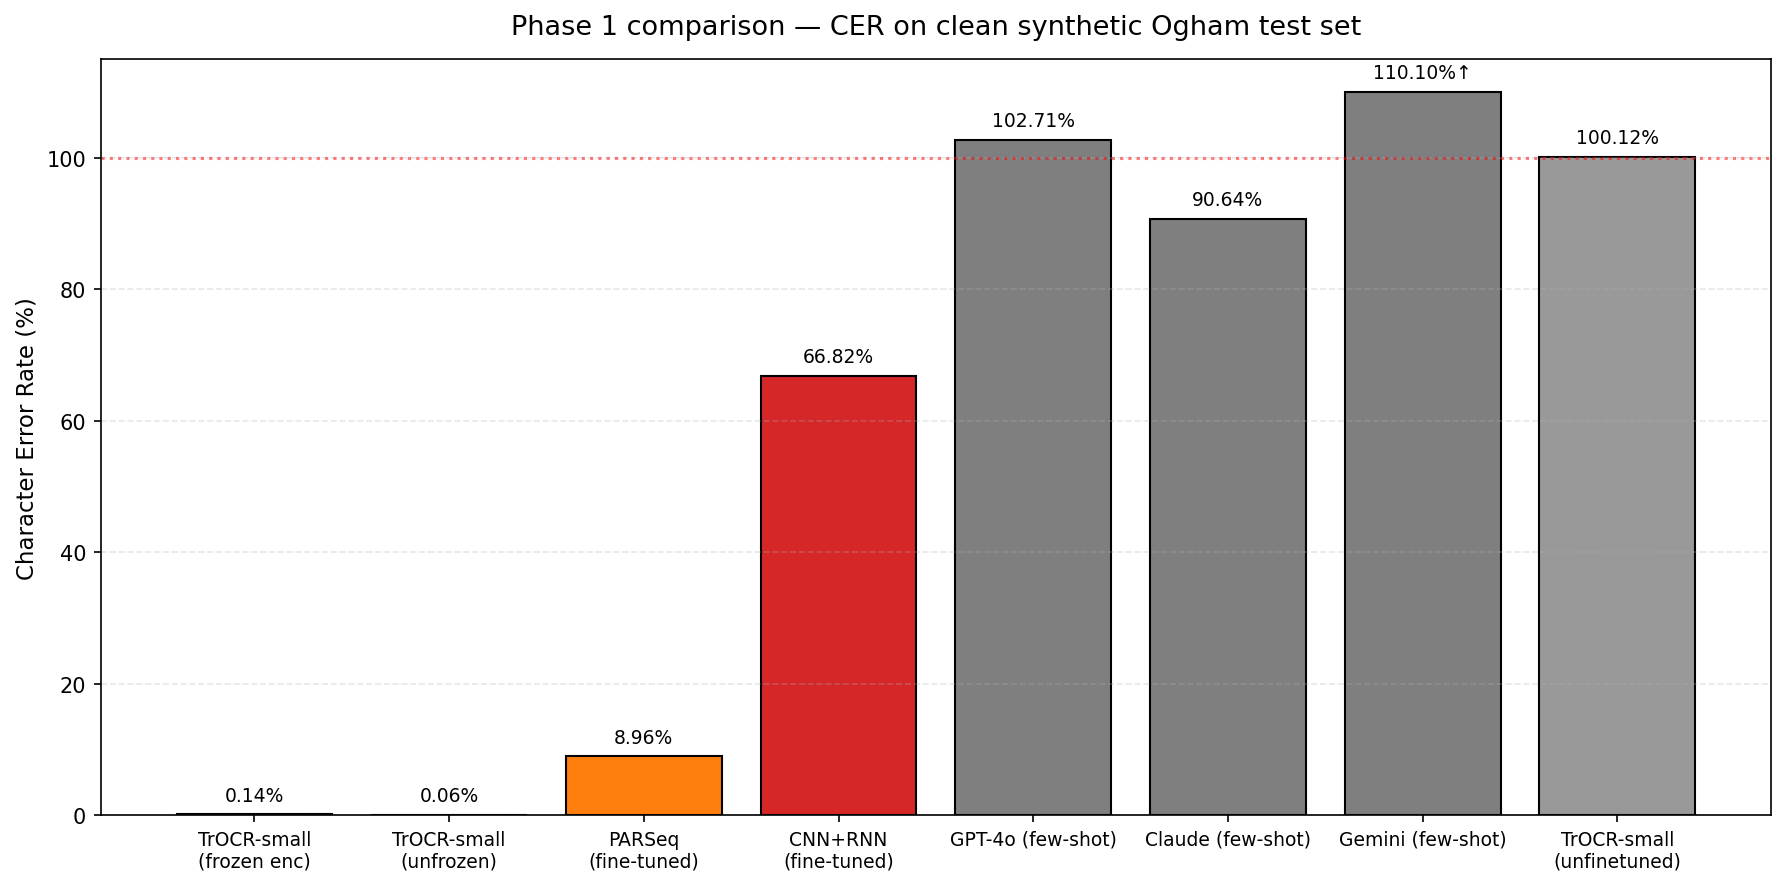
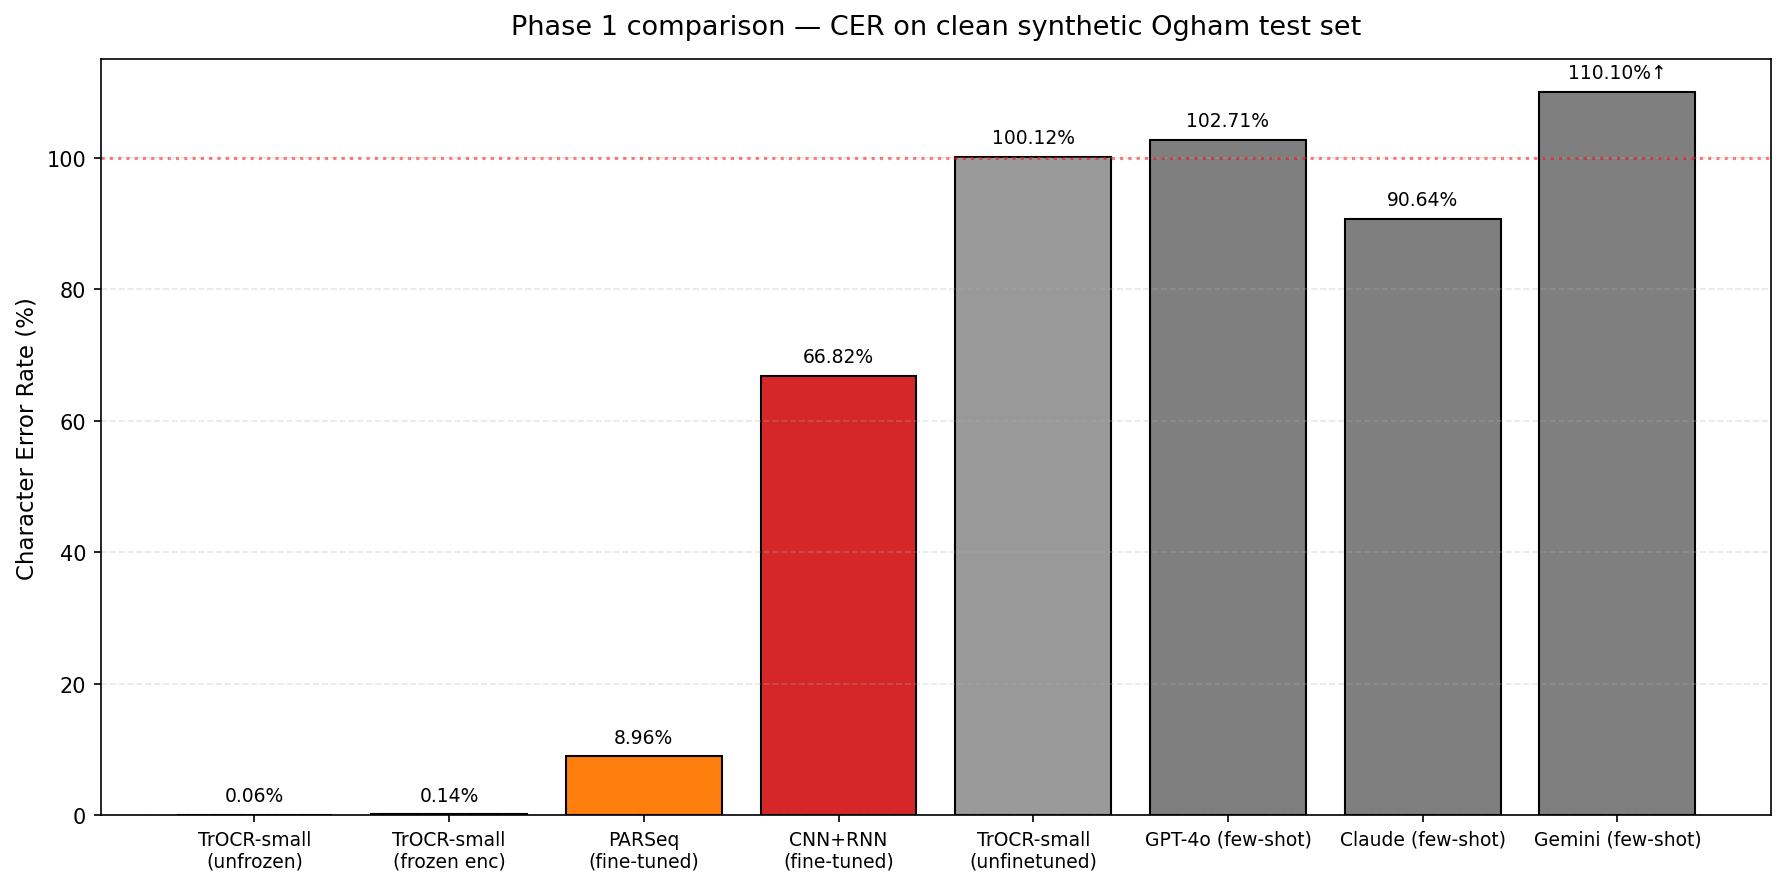
Reorder bars, rename to freeform trace, add Phase 2 and log-scale variants
- Phase 1 bar order: unfrozen, frozen, PARSeq, CNN+RNN, unfinetuned, GPT-4o, Claude, Gemini
- Rename chart text "synthetic-freeform" → "freeform trace" (dataset/marker names kept)
- Add Phase 2 versions of model_comparison_bar and model_size_cer_bar (linear + log)
- Drop TrOCR-base from size-vs-CER chart; order remaining three by parameter count
- Strip "val set" / "test set" from titles

diff --git a/scripts/plot_full_comparison.py b/scripts/plot_full_comparison.py
@@ -90,16 +90,16 @@ def _status_for(model_name, split_key):
 def chart_phase1_comparison():
     """Bar chart: all models' CER on clean synthetic."""
     models = [
-        ("TrOCR-small\n(frozen enc)",   0.14,                                                            "#a0d6a0", None),
         ("TrOCR-small\n(unfrozen)",     phase2_data["models"]["trocr_small"]["phase1_synth_cer_pct"],   "#2ca02c", None),
+        ("TrOCR-small\n(frozen enc)",   0.14,                                                            "#a0d6a0", None),
         ("PARSeq\n(fine-tuned)",        phase2_data["models"]["parseq"]["phase1_synth_cer_pct"],        "#ff7f0e", None),
         ("CNN+RNN\n(fine-tuned)",       phase2_data["models"]["cnn_rnn"]["phase1_synth_cer_pct"],       "#d62728", None),
+        ("TrOCR-small\n(unfinetuned)",  100.12,                                                          "#999999", None),
     ]
     for name, vals in EXTENDED_LM_RESULTS.items():
         if vals["synth_cer"] is not None:
             status = _status_for(name, "synth_status")
             models.append((name, vals["synth_cer"], "#7f7f7f", status))
-    models.append(("TrOCR-small\n(unfinetuned)", 100.12, "#999999", None))
 
     labels = [m[0] for m in models]
     cers = [m[1] for m in models]
@@ -174,7 +174,7 @@ def chart_phase2_comparison():
     ax.set_xticks(range(len(labels)))
     ax.set_xticklabels(labels, fontsize=9, rotation=15, ha="right")
     ax.set_ylabel("Character Error Rate (%)", fontsize=11)
-    ax.set_title("Phase 2 comparison — CER on synthetic-freeform test set",
+    ax.set_title("Phase 2 comparison — CER on freeform trace",
                  fontsize=13, pad=12)
     ax.set_ylim(0, 160)
     ax.grid(axis="y", alpha=0.3, linestyle="--")
@@ -200,15 +200,15 @@ def chart_phase2_comparison():
 def chart_phase1_exact_match():
     """Bar chart: all models' exact-match on clean synthetic."""
     models = [
-        ("TrOCR-small\n(frozen enc)", 99.4,                                                                      "#a0d6a0"),
         ("TrOCR-small\n(unfrozen)",   phase2_data["models"]["trocr_small"].get("phase1_synth_exact_pct", 99.8), "#2ca02c"),
+        ("TrOCR-small\n(frozen enc)", 99.4,                                                                      "#a0d6a0"),
         ("PARSeq\n(fine-tuned)",      phase2_data["models"]["parseq"].get("phase1_synth_exact_pct", 72.2),       "#ff7f0e"),
         ("CNN+RNN\n(fine-tuned)",     phase2_data["models"]["cnn_rnn"].get("phase1_synth_exact_pct", 24.8),      "#d62728"),
+        ("TrOCR-small\n(unfinetuned)", 0.0,                                                                      "#999999"),
     ]
     for name, vals in EXTENDED_LM_RESULTS.items():
         if vals["synth_exact"] is not None:
             models.append((name, vals["synth_exact"], "#7f7f7f"))
-    models.append(("TrOCR-small\n(unfinetuned)", 0.0, "#999999"))
 
     labels = [m[0] for m in models]
     exacts = [m[1] for m in models]
@@ -256,7 +256,7 @@ def chart_phase2_exact_match():
     ax.set_xticks(range(len(labels)))
     ax.set_xticklabels(labels, fontsize=9, rotation=15, ha="right")
     ax.set_ylabel("Exact match rate (%)", fontsize=11)
-    ax.set_title("Phase 2 comparison — exact-match on synthetic-freeform test set",
+    ax.set_title("Phase 2 comparison — exact-match on freeform trace",
                  fontsize=13, pad=12)
     ax.set_ylim(0, 105)
     ax.grid(axis="y", alpha=0.3, linestyle="--")
@@ -279,15 +279,15 @@ def chart_phase1_dual():
 
     # Left: CER
     p1_models_cer = [
-        ("TrOCR-small\n(frozen enc)", 0.14,                                                              "#a0d6a0"),
         ("TrOCR-small\n(unfrozen)",   phase2_data["models"]["trocr_small"]["phase1_synth_cer_pct"],     "#2ca02c"),
+        ("TrOCR-small\n(frozen enc)", 0.14,                                                              "#a0d6a0"),
         ("PARSeq\n(fine-tuned)",      phase2_data["models"]["parseq"]["phase1_synth_cer_pct"],           "#ff7f0e"),
         ("CNN+RNN\n(fine-tuned)",     phase2_data["models"]["cnn_rnn"]["phase1_synth_cer_pct"],          "#d62728"),
+        ("TrOCR-small\n(unfinetuned)", 100.12,                                                           "#999999"),
     ]
     for name, vals in EXTENDED_LM_RESULTS.items():
         if vals["synth_cer"] is not None:
             p1_models_cer.append((name, vals["synth_cer"], "#7f7f7f"))
-    p1_models_cer.append(("TrOCR-small\n(unfinetuned)", 100.12, "#999999"))
 
     labels = [m[0] for m in p1_models_cer]
     cers = [m[1] for m in p1_models_cer]
@@ -309,15 +309,15 @@ def chart_phase1_dual():
 
     # Right: exact match
     p1_models_ex = [
-        ("TrOCR-small\n(frozen enc)", 99.4,                                                                      "#a0d6a0"),
         ("TrOCR-small\n(unfrozen)",   phase2_data["models"]["trocr_small"].get("phase1_synth_exact_pct", 99.8), "#2ca02c"),
+        ("TrOCR-small\n(frozen enc)", 99.4,                                                                      "#a0d6a0"),
         ("PARSeq\n(fine-tuned)",      phase2_data["models"]["parseq"].get("phase1_synth_exact_pct", 72.2),       "#ff7f0e"),
         ("CNN+RNN\n(fine-tuned)",     phase2_data["models"]["cnn_rnn"].get("phase1_synth_exact_pct", 24.8),      "#d62728"),
+        ("TrOCR-small\n(unfinetuned)", 0.0,                                                                      "#999999"),
     ]
     for name, vals in EXTENDED_LM_RESULTS.items():
         if vals["synth_exact"] is not None:
             p1_models_ex.append((name, vals["synth_exact"], "#7f7f7f"))
-    p1_models_ex.append(("TrOCR-small\n(unfinetuned)", 0.0, "#999999"))
 
     exacts = [m[1] for m in p1_models_ex]
     bars2 = ax2.bar(range(len(labels)), exacts, color=colors, edgecolor="black")
@@ -396,7 +396,7 @@ def chart_phase2_dual():
         ax2.text(bar.get_x() + bar.get_width() / 2, h + 1,
                  f"{ex:.1f}%", ha="center", va="bottom", fontsize=8)
 
-    fig.suptitle("Phase 2 comparison on 35-sample synthetic-freeform test set",
+    fig.suptitle("Phase 2 comparison on freeform trace",
                  fontsize=13, fontweight="bold", y=1.01)
     plt.tight_layout()
     out = FIGURES / "phase2_dual_metric.png"

diff --git a/scripts/plot_model_comparison.py b/scripts/plot_model_comparison.py
@@ -71,12 +71,12 @@ parseq_exact = [
     70.8, 71.6, 72.1, 72.1, 72.2,
 ]
 
-# Large models (single point, not epoch-based)
+# Large models — Phase 1 clean-synth (30 samples, few-shot prompting).
+# Source: docs/extended_large_model_results.json
 large_models = {
-    "GPT-4o\n(zero-shot)": 98.22,
-    "GPT-4o\n(few-shot)": 93.23,
-    "Claude\n(zero-shot)": 97.33,
-    "Claude\n(few-shot)": 80.07,
+    "GPT-4o\n(few-shot)": 102.71,
+    "Claude\n(few-shot)": 90.64,
+    "Gemini\n(few-shot)": 110.10,
 }
 
 plt.style.use("seaborn-v0_8-whitegrid")
@@ -141,21 +141,19 @@ print(f"Saved: {output_dir / 'model_comparison_exact_match.png'}")
 fig, ax = plt.subplots(figsize=(12, 5))
 
 all_models = {
-    "TrOCR-small\nunfrozen": 0.06,
-    "TrOCR-small\nfrozen": 0.14,
-    "PARSeq": 8.96,
-    "CNN+RNN\n(CTC)": 66.82,
-    "Claude\n(few-shot)": 80.07,
-    "TrOCR-base": 90.43,
-    "GPT-4o\n(few-shot)": 93.23,
-    "Claude\n(zero-shot)": 97.33,
-    "GPT-4o\n(zero-shot)": 98.22,
-    "TrOCR-small\nUNTRAINED": 100.12,
+    "TrOCR-small\nunfrozen":      0.06,
+    "TrOCR-small\nfrozen":        0.14,
+    "PARSeq":                     8.96,
+    "CNN+RNN\n(CTC)":             66.82,
+    "TrOCR-small\nUNTRAINED":   100.12,
+    "GPT-4o\n(few-shot)":       102.71,
+    "Claude\n(few-shot)":        90.64,
+    "Gemini\n(few-shot)":       110.10,
 }
 
 model_colors = [
     colors["unfrozen"], colors["frozen"], colors["parseq"], colors["cnn_rnn"],
-    colors["large"], "#03A9F4", colors["large"], colors["large"], colors["large"], "#BDBDBD",
+    "#BDBDBD", colors["large"], colors["large"], colors["large"],
 ]
 
 bars = ax.bar(all_models.keys(), all_models.values(), color=model_colors, edgecolor="white", linewidth=0.5)
@@ -170,13 +168,83 @@ for bar, val in zip(bars, all_models.values()):
                 f"{val:.1f}%", ha="center", va="top", fontsize=9, fontweight="bold", color="white")
 
 ax.set_ylabel("Character Error Rate (%)")
-ax.set_title("Final CER Comparison — All Models", fontsize=14, fontweight="bold")
-ax.set_ylim(0, 105)
+ax.set_title("Phase 1 — CER on clean synthetic Ogham",
+             fontsize=14, fontweight="bold")
+ax.axhline(100, linestyle=":", color="red", alpha=0.4)
+ax.set_ylim(0, 120)
 
 plt.tight_layout()
 plt.savefig(output_dir / "model_comparison_bar.png", dpi=150, bbox_inches="tight")
 plt.close()
 print(f"Saved: {output_dir / 'model_comparison_bar.png'}")
+
+
+# === Figure 3b: Phase 2 bar chart — same style, synthetic-freeform test ===
+fig, ax = plt.subplots(figsize=(12, 5))
+
+# Phase 2 post-curriculum CER on the 35-sample freeform test split.
+# Large models: few-shot freeform eval from docs/extended_large_model_results.json.
+phase2_models = {
+    "TrOCR-small\n(phase 2)":     1.34,
+    "PARSeq\n(phase 2)":         29.17,
+    "CNN+RNN\n(phase 2)":        67.24,
+    "GPT-4o\n(few-shot)":       141.57,
+    "Claude\n(few-shot)":       109.00,
+    "Gemini\n(few-shot)":        85.63,
+}
+
+phase2_colors = [
+    colors["unfrozen"], colors["parseq"], colors["cnn_rnn"],
+    colors["large"], colors["large"], colors["large"],
+]
+
+YMAX = 160  # give headroom for GPT-4o 141.57
+bars = ax.bar(phase2_models.keys(), phase2_models.values(),
+              color=phase2_colors, edgecolor="white", linewidth=0.5)
+
+for bar, val in zip(bars, phase2_models.values()):
+    if val < 5:
+        ax.text(bar.get_x() + bar.get_width()/2, bar.get_height() + 2.5,
+                f"{val:.2f}%", ha="center", va="bottom", fontsize=9, fontweight="bold")
+    else:
+        ax.text(bar.get_x() + bar.get_width()/2, bar.get_height() - 6,
+                f"{val:.1f}%", ha="center", va="top", fontsize=9,
+                fontweight="bold", color="white")
+
+ax.set_ylabel("Character Error Rate (%)")
+ax.set_title("Phase 2 — CER on freeform trace",
+             fontsize=14, fontweight="bold")
+ax.axhline(100, linestyle=":", color="red", alpha=0.4)
+ax.set_ylim(0, YMAX)
+
+plt.tight_layout()
+plt.savefig(output_dir / "model_comparison_bar_phase2.png", dpi=150, bbox_inches="tight")
+plt.close()
+print(f"Saved: {output_dir / 'model_comparison_bar_phase2.png'}")
+
+
+# === Figure 3c: Phase 2 log-scale bar ===
+fig, ax = plt.subplots(figsize=(12, 5))
+
+ax.bar(phase2_models.keys(), phase2_models.values(),
+       color=phase2_colors, edgecolor="white", linewidth=0.5)
+
+for bar, val in zip(ax.patches, phase2_models.values()):
+    y_pos = val * 1.15
+    ax.text(bar.get_x() + bar.get_width()/2, y_pos,
+            f"{val:.2f}%" if val < 1 else f"{val:.1f}%",
+            ha="center", va="bottom", fontsize=9, fontweight="bold")
+
+ax.set_ylabel("Character Error Rate (%, log scale)")
+ax.set_title("Phase 2 — CER on freeform trace (log scale)",
+             fontsize=14, fontweight="bold")
+ax.set_yscale("log")
+ax.set_ylim(0.5, 300)
+
+plt.tight_layout()
+plt.savefig(output_dir / "model_comparison_bar_phase2_log.png", dpi=150, bbox_inches="tight")
+plt.close()
+print(f"Saved: {output_dir / 'model_comparison_bar_phase2_log.png'}")
 
 # === Figure 4: Log-scale CER bar (to show TrOCR detail) ===
 fig, ax = plt.subplots(figsize=(12, 5))
@@ -190,7 +258,8 @@ for bar, val in zip(ax.patches, all_models.values()):
             ha="center", va="bottom", fontsize=9, fontweight="bold")
 
 ax.set_ylabel("Character Error Rate (%, log scale)")
-ax.set_title("Final CER Comparison — Log Scale", fontsize=14, fontweight="bold")
+ax.set_title("Phase 1 — CER on clean synthetic Ogham (log scale)",
+             fontsize=14, fontweight="bold")
 ax.set_yscale("log")
 ax.set_ylim(0.01, 200)
 

diff --git a/scripts/plot_base_comparison.py b/scripts/plot_base_comparison.py
@@ -148,30 +148,60 @@ plt.savefig(output_dir / "base_vs_small_val_loss.png", dpi=150, bbox_inches="tig
 plt.close()
 print(f"Saved: {output_dir / 'base_vs_small_val_loss.png'}")
 
-# === Figure 5: Final summary bar chart ===
+# === Figure 5a: Phase 1 — best CER by model size ===
+# Architectures ordered by parameter count (smallest → largest).
+# Phase 1 = trained on 200k clean synthetic. Source: docs/phase2_comparison.json
 fig, ax = plt.subplots(figsize=(10, 5))
 
-models = ["TrOCR-small\nunfrozen\n(62M)", "TrOCR-base\nbatch=16\n(385M)", "TrOCR-base\nbatch=64\n(385M)", "CNN+RNN\n(15M)"]
-best_cers = [0.06, 90.43, 28.55, 66.82]
-bar_colors = [colors["small"], colors["base_b16"], colors["base_b64"], colors["cnn_rnn"]]
+size_models_p1 = ["CNN+RNN\n(12.5M)", "PARSeq\n(23.8M)", "TrOCR-small\n(61.6M)"]
+size_cer_p1 = [66.82, 8.96, 0.06]
+size_bar_colors = [colors["cnn_rnn"], "#4CAF50", colors["small"]]
 
-bars = ax.bar(models, best_cers, color=bar_colors, edgecolor="white", linewidth=0.5)
-
-for bar, val in zip(bars, best_cers):
+bars = ax.bar(size_models_p1, size_cer_p1, color=size_bar_colors,
+              edgecolor="white", linewidth=0.5)
+for bar, val in zip(bars, size_cer_p1):
     if val < 5:
         ax.text(bar.get_x() + bar.get_width()/2, bar.get_height() + 2,
                 f"{val:.2f}%", ha="center", va="bottom", fontsize=11, fontweight="bold")
     else:
         ax.text(bar.get_x() + bar.get_width()/2, bar.get_height() - 4,
-                f"{val:.1f}%", ha="center", va="top", fontsize=11, fontweight="bold", color="white")
+                f"{val:.1f}%", ha="center", va="top", fontsize=11,
+                fontweight="bold", color="white")
 
 ax.set_ylabel("Best CER (%)")
-ax.set_title("Best CER by Model Size — Bigger Is Not Better", fontsize=14, fontweight="bold")
-ax.set_ylim(0, 115)
+ax.set_title("Phase 1 — Best CER by model size", fontsize=14, fontweight="bold")
+ax.set_ylim(0, 80)
 
 plt.tight_layout()
 plt.savefig(output_dir / "model_size_cer_bar.png", dpi=150, bbox_inches="tight")
 plt.close()
 print(f"Saved: {output_dir / 'model_size_cer_bar.png'}")
+
+# === Figure 5b: Phase 2 — best CER by model size ===
+# After curriculum fine-tune on 350 synthetic-freeform samples.
+fig, ax = plt.subplots(figsize=(10, 5))
+
+size_models_p2 = ["CNN+RNN\n(12.5M)", "PARSeq\n(23.8M)", "TrOCR-small\n(61.6M)"]
+size_cer_p2 = [67.24, 29.17, 1.34]
+
+bars = ax.bar(size_models_p2, size_cer_p2, color=size_bar_colors,
+              edgecolor="white", linewidth=0.5)
+for bar, val in zip(bars, size_cer_p2):
+    if val < 5:
+        ax.text(bar.get_x() + bar.get_width()/2, bar.get_height() + 2,
+                f"{val:.2f}%", ha="center", va="bottom", fontsize=11, fontweight="bold")
+    else:
+        ax.text(bar.get_x() + bar.get_width()/2, bar.get_height() - 4,
+                f"{val:.1f}%", ha="center", va="top", fontsize=11,
+                fontweight="bold", color="white")
+
+ax.set_ylabel("Best CER (%)")
+ax.set_title("Phase 2 — Best CER by model size", fontsize=14, fontweight="bold")
+ax.set_ylim(0, 80)
+
+plt.tight_layout()
+plt.savefig(output_dir / "model_size_cer_bar_phase2.png", dpi=150, bbox_inches="tight")
+plt.close()
+print(f"Saved: {output_dir / 'model_size_cer_bar_phase2.png'}")
 
 print("\nAll base vs small comparison charts saved to docs/figures/")

diff --git a/scripts/save_phase2_comparison.py b/scripts/save_phase2_comparison.py
@@ -151,7 +151,7 @@ def chart_pre_vs_post():
 
     ax.set_xticks(x)
     ax.set_xticklabels(labels, fontsize=11)
-    ax.set_ylabel("CER on held-out synthetic-freeform test (%)", fontsize=11)
+    ax.set_ylabel("CER on freeform trace (%)", fontsize=11)
     ax.set_title("Phase 2 fine-tuning impact across architectures", fontsize=13, pad=12)
     ax.legend(loc="upper left", fontsize=10)
     ax.grid(axis="y", alpha=0.3, linestyle="--")
@@ -268,7 +268,7 @@ def chart_combined():
     ax2.set_ylim(-1, 15)
 
     fig.suptitle(
-        "Phase 2 fine-tuning across OCR architectures on synthetic-freeform Ogham",
+        "Phase 2 fine-tuning across OCR architectures on freeform trace",
         fontsize=13, fontweight="bold", y=1.02,
     )
     plt.tight_layout()
